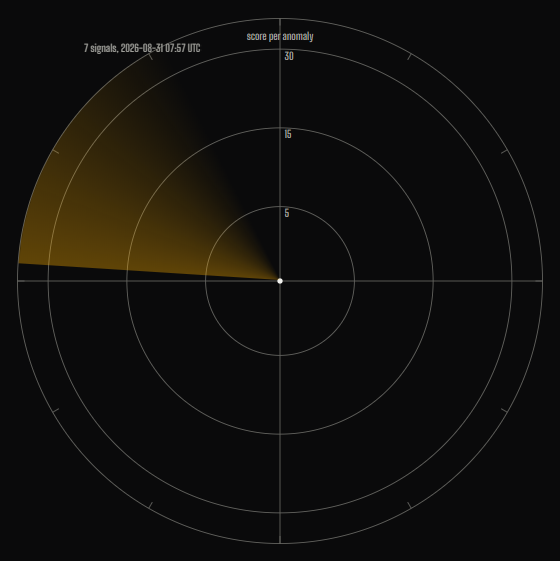
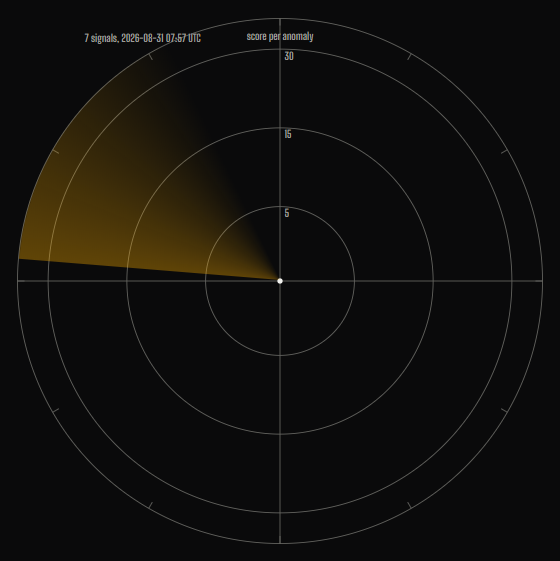
feat(dashboard): implement 16E cluster angle separation, monospace identifiers, and live route verification

Changed region(s): [[0.0304, 0.4545, 0.3036, 0.4848], [0.1518, 0.0606, 0.3643, 0.0909], [0.3036, 0.4848, 0.3643, 0.5152]]

diff --git a/docs/dashboard-preview.html b/docs/dashboard-preview.html
@@ -853,17 +853,17 @@ footer a:hover {
     <circle cx="320" cy="320" r="3" fill="var(--ink)" />
   </g>
   <g class="radar-group">
-    <g class="radar-dot radar-dot-high" data-anomaly-id="anomaly-0" tabindex="0" style="animation-delay: 2.140s;"><circle cx="153.2" cy="114.1" r="9" fill="var(--accent)" /><circle cx="153.2" cy="114.1" r="13" fill="none" stroke="var(--accent)" stroke-width="1" /></g>
-    <circle cx="217.1" cy="178.4" r="6" fill="var(--accent)" class="radar-dot radar-dot-med" data-anomaly-id="anomaly-1" tabindex="0" style="animation-delay: 2.160s;" />
+    <g class="radar-dot radar-dot-high" data-anomaly-id="anomaly-0" tabindex="0" style="animation-delay: 2.080s;"><circle cx="123.1" cy="142.7" r="9" fill="var(--accent)" /><circle cx="123.1" cy="142.7" r="13" fill="none" stroke="var(--accent)" stroke-width="1" /></g>
+    <circle cx="202.9" cy="190.0" r="6" fill="var(--accent)" class="radar-dot radar-dot-med" data-anomaly-id="anomaly-1" tabindex="0" style="animation-delay: 2.120s;" />
     <g class="radar-dot radar-dot-high" data-anomaly-id="anomaly-2" tabindex="0" style="animation-delay: 2.192s;"><circle cx="182.9" cy="93.2" r="9" fill="var(--accent)" /><circle cx="182.9" cy="93.2" r="13" fill="none" stroke="var(--accent)" stroke-width="1" /></g>
-    <circle cx="273.7" cy="248.7" r="4" fill="var(--ink2)" class="radar-dot radar-dot-low" data-anomaly-id="anomaly-3" tabindex="0" style="animation-delay: 2.180s;" />
+    <circle cx="270.0" cy="251.2" r="4" fill="var(--ink2)" class="radar-dot radar-dot-low" data-anomaly-id="anomaly-3" tabindex="0" style="animation-delay: 2.160s;" />
     <circle cx="277.5" cy="246.4" r="4" fill="var(--ink2)" class="radar-dot radar-dot-low" data-anomaly-id="anomaly-4" tabindex="0" style="animation-delay: 2.200s;" />
-    <circle cx="281.4" cy="244.3" r="4" fill="var(--ink2)" class="radar-dot radar-dot-low" data-anomaly-id="anomaly-5" tabindex="0" style="animation-delay: 2.220s;" />
-    <circle cx="285.4" cy="242.4" r="4" fill="var(--ink2)" class="radar-dot radar-dot-low" data-anomaly-id="anomaly-6" tabindex="0" style="animation-delay: 2.240s;" />
-    <g class="radar-dot radar-dot-high" data-anomaly-id="anomaly-7" tabindex="0" style="animation-delay: 2.260s;"><circle cx="225.0" cy="72.6" r="9" fill="var(--accent)" /><circle cx="225.0" cy="72.6" r="13" fill="none" stroke="var(--accent)" stroke-width="1" /></g>
+    <circle cx="285.4" cy="242.4" r="4" fill="var(--ink2)" class="radar-dot radar-dot-low" data-anomaly-id="anomaly-5" tabindex="0" style="animation-delay: 2.240s;" />
+    <circle cx="293.7" cy="239.2" r="4" fill="var(--ink2)" class="radar-dot radar-dot-low" data-anomaly-id="anomaly-6" tabindex="0" style="animation-delay: 2.280s;" />
+    <g class="radar-dot radar-dot-high" data-anomaly-id="anomaly-7" tabindex="0" style="animation-delay: 2.320s;"><circle cx="264.9" cy="60.8" r="9" fill="var(--accent)" /><circle cx="264.9" cy="60.8" r="13" fill="none" stroke="var(--accent)" stroke-width="1" /></g>
   </g>
   <g class="radar-clusters">
-    <text x="228.8" y="58.6" text-anchor="end" class="radar-cluster-label" fill="var(--ink2)" font-size="12" font-family="var(--display)">7 signals, 2026-08-31 07:57 UTC</text>
+    <text x="229.4" y="46.8" text-anchor="end" class="radar-cluster-label" fill="var(--ink2)" font-size="12" font-family="var(--display)">7 signals, 2026-08-31 07:57 UTC</text>
   </g>
 </svg>
         </div>
@@ -957,7 +957,7 @@ footer a:hover {
             </div>
             
           </div>
-          <div class="anomaly-desc">First swap on OKX_DEX_ROUTER.</div>
+          <div class="anomaly-desc">First swap on <span class="mono">OKX_DEX_ROUTER</span>.</div>
         </div>
         <div class="anomaly-row" data-anomaly-id="anomaly-2" data-anomaly-text="Swap of ~$4,000 is 4.5x the wallet's median (~$844.10)." tabindex="0">
           <div class="anomaly-time mono">2026-08-30 17:29 UTC</div>
@@ -983,7 +983,7 @@ footer a:hover {
             </div>
             
           </div>
-          <div class="anomaly-desc">First interaction with program proVF4pMXVaYqmy4NjniPh4pqKNfMmsihgd4wdkCX3u.</div>
+          <div class="anomaly-desc">First interaction with program <span class="mono">proVF4pMXVaYqmy4NjniPh4pqKNfMmsihgd4wdkCX3u</span>.</div>
         </div>
         <div class="anomaly-row" data-anomaly-id="anomaly-4" data-anomaly-text="New counterparty 6qoHtd3NpwjVB76Z5bLfbXc2FYuuuytmThhH6ouZQHUJ (10 interactions) against 64 established relationships." tabindex="0">
           <div class="anomaly-time mono">2026-08-31 07:57 UTC</div>
@@ -996,7 +996,7 @@ footer a:hover {
             </div>
             
           </div>
-          <div class="anomaly-desc">New counterparty 6qoHtd3NpwjVB76Z5bLfbXc2FYuuuytmThhH6ouZQHUJ (10 interactions) against 64 established relationships.</div>
+          <div class="anomaly-desc">New counterparty <span class="mono">6qoHtd3NpwjVB76Z5bLfbXc2FYuuuytmThhH6ouZQHUJ</span> (10 interactions) against 64 established relationships.</div>
         </div>
         <div class="anomaly-row" data-anomaly-id="anomaly-5" data-anomaly-text="New counterparty FkaLnX17cXZGyeu3kZGdHCNdFMJJzBrPPYVvd18B3MZp (6 interactions) against 64 established relationships." tabindex="0">
           <div class="anomaly-time mono">2026-08-31 07:57 UTC</div>
@@ -1009,7 +1009,7 @@ footer a:hover {
             </div>
             
           </div>
-          <div class="anomaly-desc">New counterparty FkaLnX17cXZGyeu3kZGdHCNdFMJJzBrPPYVvd18B3MZp (6 interactions) against 64 established relationships.</div>
+          <div class="anomaly-desc">New counterparty <span class="mono">FkaLnX17cXZGyeu3kZGdHCNdFMJJzBrPPYVvd18B3MZp</span> (6 interactions) against 64 established relationships.</div>
         </div>
         <div class="anomaly-row" data-anomaly-id="anomaly-6" data-anomaly-text="New counterparty CreQJ2t94QK5dsxUZGXfPJ8Nx7wA9LHr5chxjSMkbNft (6 interactions) against 64 established relationships." tabindex="0">
           <div class="anomaly-time mono">2026-08-31 07:57 UTC</div>
@@ -1022,7 +1022,7 @@ footer a:hover {
             </div>
             
           </div>
-          <div class="anomaly-desc">New counterparty CreQJ2t94QK5dsxUZGXfPJ8Nx7wA9LHr5chxjSMkbNft (6 interactions) against 64 established relationships.</div>
+          <div class="anomaly-desc">New counterparty <span class="mono">CreQJ2t94QK5dsxUZGXfPJ8Nx7wA9LHr5chxjSMkbNft</span> (6 interactions) against 64 established relationships.</div>
         </div>
         <div class="anomaly-row" data-anomaly-id="anomaly-7" data-anomaly-text="Regime shift: cadence (inter-activity interval decelerated to 3046s vs baseline 19s, 160.3x slower)." tabindex="0">
           <div class="anomaly-time mono">2026-08-31 07:57 UTC</div>

diff --git a/test/dashboard.test.ts b/test/dashboard.test.ts
@@ -654,7 +654,8 @@ describe("Web Dashboard & ZK Scan Ledger (src/dashboard.ts)", () => {
 
     for (let i = 0; i < replayRaw.anomalies.length; i++) {
       const expectedText = replayRaw.anomalies[i].text;
-      assert.equal(descMatches[i], expectedText, `Row ${i} description must exactly equal anomaly.text`);
+      const strippedText = descMatches[i].replace(/<[^>]+>/g, "");
+      assert.equal(strippedText, expectedText, `Row ${i} description must exactly equal anomaly.text`);
       assert.ok(html.includes(expectedText), `HTML must contain raw anomaly.text for row ${i}`);
     }
   });
@@ -730,5 +731,55 @@ describe("Web Dashboard & ZK Scan Ledger (src/dashboard.ts)", () => {
 
     const htmlLive = renderDashboardHtml({ wallet: testWallet, records: mockRecords });
     assert.ok(htmlLive.includes('<div class="verdict-sub">scan verdict</div>'));
+  });
+
+  // (t) 16E: Radar cluster anomalies separated by >= 6 deg between neighbors, max offset <= 25 deg
+  test("(t) 16E: Radar cluster anomalies separated by >= 6 deg between neighbors, max offset <= 25 deg", () => {
+    const replayRaw = JSON.parse(fs.readFileSync(path.resolve(process.cwd(), "docs/dashboard/replay-8XeK5m.json"), "utf8"));
+    const html = renderDashboardHtml({ demo: "replay" });
+
+    // Number of dots equals number of anomalies
+    const dots = html.match(/class="[^"]*\bradar-dot\b/g) || [];
+    assert.equal(dots.length, replayRaw.anomalies.length, "Dot count must equal anomaly count");
+
+    // All low-weight dots have radius 4px
+    const lowDots = html.match(/<circle[^>]*class="[^"]*\bradar-dot-low\b[^"]*"[^>]*>/g) || [];
+    assert.ok(lowDots.length > 0);
+    for (const d of lowDots) {
+      assert.ok(d.includes('r="4"'), `Low weight dot must have radius 4px: ${d}`);
+    }
+
+    // Extract angles for cluster with timestamp 1788163072
+    // Angle in degree = (delay / 2.4) * 360
+    const clusterIndices = replayRaw.anomalies
+      .map((a: any, idx: number) => ({ idx, timestamp: a.timestamp }))
+      .filter((item: any) => item.timestamp === 1788163072)
+      .map((item: any) => item.idx);
+
+    const delays = Array.from(html.matchAll(/class="[^"]*radar-dot[^"]*"[^>]*data-anomaly-id="anomaly-(\d+)"[^>]*style="animation-delay:\s*([0-9.]+)s/g))
+      .map((m) => ({ idx: parseInt(m[1], 10), delay: parseFloat(m[2]) }));
+
+    const clusterDelays = delays.filter((d) => clusterIndices.includes(d.idx)).sort((a, b) => a.delay - b.delay);
+    assert.equal(clusterDelays.length, 7, "Cluster must contain 7 anomalies");
+
+    const angles = clusterDelays.map((d) => (d.delay / 2.4) * 360);
+    const centerAngle = (angles[0] + angles[angles.length - 1]) / 2;
+
+    for (let i = 0; i < angles.length - 1; i++) {
+      const diff = angles[i + 1] - angles[i];
+      assert.ok(diff >= 5.99, `Adjacent angle diff must be >= 6 deg (got ${diff.toFixed(2)})`);
+    }
+
+    for (const angle of angles) {
+      assert.ok(Math.abs(angle - centerAngle) <= 25.01, `Angle offset must be <= 25 deg from center (got ${Math.abs(angle - centerAngle).toFixed(2)})`);
+    }
+  });
+
+  // (u) 16E: Addresses, programs, and identifiers formatted in monospace font
+  test("(u) 16E: Addresses, programs, and identifiers formatted in monospace font", () => {
+    const html = renderDashboardHtml({ demo: "replay" });
+    assert.ok(html.includes('<span class="mono">OKX_DEX_ROUTER</span>'));
+    assert.ok(html.includes('<span class="mono">proVF4pMXVaYqmy4NjniPh4pqKNfMmsihgd4wdkCX3u</span>'));
+    assert.ok(html.includes('<span class="mono">6qoHtd3NpwjVB76Z5bLfbXc2FYuuuytmThhH6ouZQHUJ</span>'));
   });
 });

diff --git a/src/dashboard.ts b/src/dashboard.ts
@@ -183,6 +183,15 @@ function escapeText(str: string): string {
   return str.replace(/&/g, "&amp;").replace(/</g, "&lt;").replace(/>/g, "&gt;");
 }
 
+function formatAnomalyText(desc: string): string {
+  let escaped = escapeText(desc);
+  // Wrap Solana base58 addresses (32-44 characters) in mono
+  escaped = escaped.replace(/\b([1-9A-HJ-NP-Za-km-z]{32,44})\b/g, '<span class="mono">$1</span>');
+  // Wrap identifiers like OKX_DEX_ROUTER (uppercase with underscores) in mono
+  escaped = escaped.replace(/\b([A-Z0-9]+_[A-Z0-9_]+)\b/g, '<span class="mono">$1</span>');
+  return escaped;
+}
+
 const DASHBOARD_CSS = `
 ${FONT_FACES_CSS}
 
@@ -1218,7 +1227,7 @@ ${DASHBOARD_CSS}
             </div>
             ${sev === "high" ? `<span class="badge-bad">high</span>` : ""}
           </div>
-          <div class="anomaly-desc">${escapeText(a.description || a.type)}</div>
+          <div class="anomaly-desc">${formatAnomalyText(a.description || a.type)}</div>
         </div>`;
           })
           .join("\n        ")}

diff --git a/src/dashboard-radar.ts b/src/dashboard-radar.ts
@@ -118,8 +118,9 @@ export function renderRadar(opts: RenderRadarOptions): RadarRenderResult {
         const t = a.timestamp || windowStart!;
         const frac = Math.max(0, Math.min(1, (t - windowStart!) / span));
         const baseAngle = frac * 330;
-        const offset = (pos - (k - 1) / 2) * 3;
-        const finalAngle = Math.max(0, Math.min(359, (baseAngle + offset + 360) % 360));
+        const offset = (pos - (k - 1) / 2) * 6;
+        const clampedOffset = Math.max(-25, Math.min(25, offset));
+        const finalAngle = Math.max(0, Math.min(359, (baseAngle + clampedOffset + 360) % 360));
         computedAngles[idx] = finalAngle;
       });
     }
